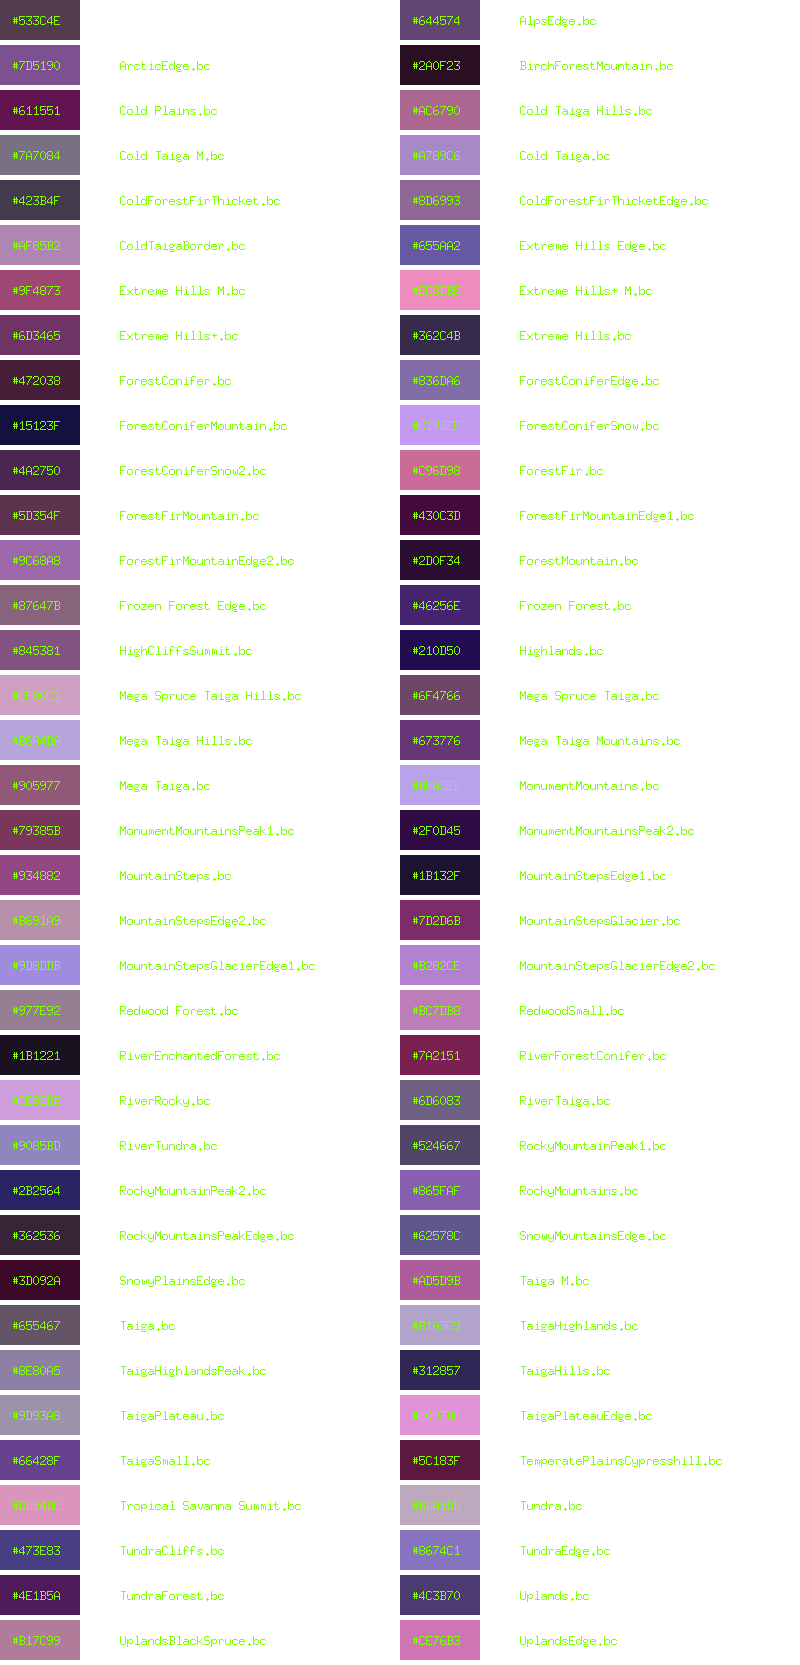
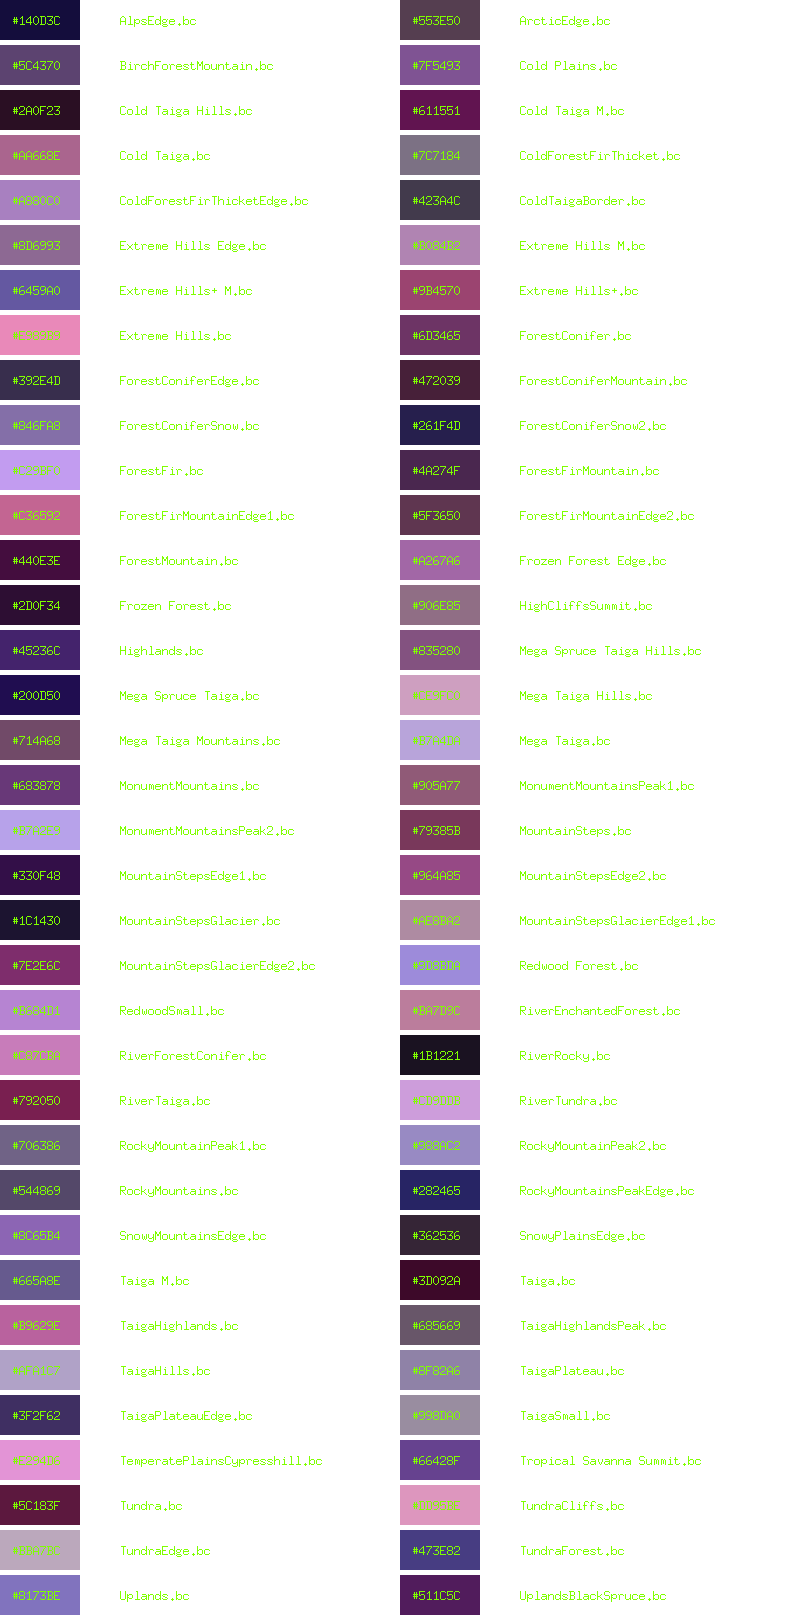
Changed code organization, biomes now organized as struct. I'm rather unsure if I actually need two maps, one by name and one by climate type 🤔

diff --git a/main/main.go b/main/main.go
@@ -12,94 +12,64 @@ import (
 	"strconv"
 	"strings"
 
-	"github.com/lucasb-eyer/go-colorful" // Colors managment
+	"github.com/lucasb-eyer/go-colorful" // Colors management
 	"golang.org/x/image/font"
 	"golang.org/x/image/font/basicfont"
 	"golang.org/x/image/math/fixed"
 	"gopkg.in/ini.v1" // INI parser
 )
 
+// biomeList will contain a map of type biome of all the biomes found by getBiomes indexed with the biome name as the key
+var biomeList = make(map[string][]biome)
+
+// same as above but this map has keys set as climate type
+var biomeListByClimate = make(map[string][]biome)
+
 /*
-Global variables declaration
+The biome struct will contain biomes infos.
+Vanilla reference for the climateZone:
+Biomes are separated into 5 categories.
+The snow-covered biomes are marked in blue with temperature <0.2
+cold in green  with temperature <0.5,
+medium/lush in orange  with temperature <0.95
+and dry/warm in red  with temperature <=2.
 */
 
-// biomeList will contain a slice of all the biomes found by getBiomes
-var biomeList []string
-
-/*
-temperatureGroups will contain biomes grouped by climate zone, I will use shades of those colors for the palette.
-Vanilla reference:
-Biomes are separated into 5 categories. The snow-covered biomes are marked in blue, cold in green,
-medium/lush in orange and dry/warm in red.
-*/
-var temperatureGroups = map[string][]string{
-	"Snowy":  {""},
-	"Cold":   {""},
-	"Medium": {""},
-	"Dry":    {""},
+type biome struct {
+	name        string
+	temperature float64
+	climateZone string
 }
 
+// Used late in prepPalette to check if a color has already been used
 var usedColors [][]float64
 
 func main() {
-	// Prints the number of biomes found, if true it will print also a list of their names
-	totalBiomes := getBiomes(false)
+
+	totalBiomes := getBiomes()
 	fmt.Println("Biomes found: ", totalBiomes)
-
-	// Assign each biome to a temperatureGroups key
-	assignBiomes()
-
-	// Just for debug to ensure that the numbers add up
-	for key := range temperatureGroups {
-		fmt.Println(key, len(temperatureGroups[key]))
-	}
-	fmt.Println(temperatureGroups["Snowy"][1])
 
 	prepPalette()
 }
 
 // getBiomes will parse the WorldBiomes folder, any biome found will be appended to the biomeList. Returns the total number of biomes found
-func getBiomes(test bool) int {
+func getBiomes() int {
 	files, err := ioutil.ReadDir("./WorldBiomes")
 	if err != nil {
 		log.Fatal(err)
 	}
 
 	for _, f := range files {
-		// Add the biomes found to the BiomeList slice
-		biomeList = append(biomeList, f.Name())
-	}
-	// If test == true, prints out a list of the biomes found.
-	if test {
-		fmt.Println(biomeList)
+		biomeCategorization(f.Name())
 	}
 
 	return len(files)
 }
 
-// assignBiomes will parse through the biomes found in biomeList, read their temperature via biomeTemp and assign them to a temperatureGroups map key
-func assignBiomes() {
-	for _, biome := range biomeList {
-		temp := biomeTemp(biome)
+// biomeCategorization will parse every biome and create its struct with proper fields
+func biomeCategorization(s string) {
 
-		switch {
-		case temp < 0.2:
-			temperatureGroups["Snowy"] = append(temperatureGroups["Snowy"], biome)
-		case temp < 0.5:
-			temperatureGroups["Cold"] = append(temperatureGroups["Cold"], biome)
-		case temp < 0.95:
-			temperatureGroups["Medium"] = append(temperatureGroups["Medium"], biome)
-		case temp <= 2:
-			temperatureGroups["Dry"] = append(temperatureGroups["Dry"], biome)
-
-		}
-	}
-
-}
-
-// biomeTemp will open each biome config file to retrieve and return its temperature value
-func biomeTemp(s string) float64 {
-
+	// get a biome file
 	input, err := ini.LoadSources(ini.LoadOptions{
 		SkipUnrecognizableLines: true,
 	}, "./WorldBiomes/"+s)
@@ -108,44 +78,73 @@ func biomeTemp(s string) float64 {
 		os.Exit(1)
 	}
 
-	tempS := input.Section("").Key("BiomeTemperature").String()
-	temp, _ := strconv.ParseFloat(tempS, 64)
+	// Get its temperature value from the key BiomeTemperature
+	temp, _ := strconv.ParseFloat(input.Section("").Key("BiomeTemperature").String(), 64)
 
-	return temp
+	// Let's see which climate this biome has
+	climate := ""
+	switch {
+	case temp < 0.2:
+		climate = "Snowy"
+	case temp < 0.5:
+		climate = "Cold"
+	case temp < 0.95:
+		climate = "Medium"
+	case temp <= 2:
+		climate = "Dry"
+
+	}
+
+	// Save the found biomes in their maps
+	biomeList[s] = append(biomeList[s], biome{
+		name:        s,
+		temperature: temp,
+		climateZone: climate,
+	})
+
+	biomeListByClimate[climate] = append(biomeListByClimate[climate], biome{
+		name:        s,
+		temperature: temp,
+		climateZone: climate,
+	})
+
 }
 
-// prepPalette will generate a colour palette for each group in temperatureGroups by calling the respective color settings in
-// isSnowy, isCold etc
+/*
+prepPalette will generate a colour palette for each climate in biomeListByClimate ensuring that all the generated colors falls under the right range with the isSnowy, isCold etc functions.
+
+*/
 func prepPalette() {
 
 	usedColors = [][]float64{}
-	snowyColors := len(temperatureGroups["Snowy"])
+	snowyColors := len(biomeListByClimate["Snowy"])
 	snowyPalette, err := colorful.SoftPaletteEx(snowyColors, colorful.SoftPaletteSettings{isSnowy, 50, true})
 	if err != nil {
 		fmt.Println(err)
 	}
 
 	usedColors = [][]float64{}
-	coldColors := len(temperatureGroups["Cold"])
+	coldColors := len(biomeListByClimate["Cold"])
 	coldPalette, err := colorful.SoftPaletteEx(coldColors, colorful.SoftPaletteSettings{isCold, 50, true})
 	if err != nil {
 		fmt.Println(err)
 	}
 
 	usedColors = [][]float64{}
-	mediumColors := len(temperatureGroups["Medium"])
+	mediumColors := len(biomeListByClimate["Medium"])
 	mediumPalette, err := colorful.SoftPaletteEx(mediumColors, colorful.SoftPaletteSettings{isMedium, 50, true})
 	if err != nil {
 		fmt.Println(err)
 	}
 
 	usedColors = [][]float64{}
-	dryColors := len(temperatureGroups["Dry"])
+	dryColors := len(biomeListByClimate["Dry"])
 	dryPalette, err := colorful.SoftPaletteEx(dryColors, colorful.SoftPaletteSettings{isDry, 50, true})
 	if err != nil {
 		fmt.Println(err)
 	}
 
+	// Let's organize the palettes
 	palettes := map[string][]colorful.Color{
 		"Snowy":  snowyPalette,
 		"Cold":   coldPalette,
@@ -153,8 +152,9 @@ func prepPalette() {
 		"Dry":    dryPalette,
 	}
 
+	// Draw them!
 	for i := range palettes {
-		printPalette(palettes[i], len(temperatureGroups[i]), i)
+		drawPalette(palettes[i], len(biomeListByClimate[i]), i)
 	}
 
 }
@@ -165,17 +165,18 @@ func isUnique(h, c, L float64) bool {
 	for _, color := range usedColors {
 		if color[0] == h && color[1] == c && color[2] == L {
 			//fmt.Println("This color already exist!")
-			//fmt.Println(usuedColors)
+			//fmt.Println(usedColors)
 			return false
 		}
 	}
 	return true
 }
 
+// All the color checking functions, I guess all of them could be grouped as a interface? And then prepPalette just call check.isSnowy, check.isCold mmm
 func isSnowy(l, a, b float64) bool {
 	h, c, L := colorful.LabToHcl(l, a, b)
 
-	// ok is a placeholder for Go visibility and scope rules
+	// ok is a placeholder for Go visibility and scope rules, do I really need this?? Must be a smarter way
 	ok := false
 
 	// if the the generated color falls into the criteria, check if it has already been generated
@@ -240,13 +241,13 @@ func isDry(l, a, b float64) bool {
 	return ok
 }
 
-// printPalette will take in a palette (created in prepPalette), how many colors it contains and its category name (Snowy, Cold etc from temperatureGroups)
-func printPalette(currentPalette []colorful.Color, colors int, group string) {
+// drawPalette will take in a palette (created in prepPalette), how many colors it contains and its climate name (Snowy, Cold etc)
+func drawPalette(currentPalette []colorful.Color, colors int, group string) {
 	/*
 		The image layout is meant to be on two columns "colored square" "HEX Value" "Biome Name"
 	*/
 
-	// Palette squares side lenght and spacing between each of them
+	// Palette squares side length and spacing between each of them
 	blockw := 40
 	space := 5
 
@@ -256,13 +257,13 @@ func printPalette(currentPalette []colorful.Color, colors int, group string) {
 	// White background
 	draw.Draw(img, image.Rect(0, 0, 800, colors/2*(blockw+space)), image.NewUniform(color.RGBA{255, 255, 255, 255}), image.ZP, draw.Src)
 
-	// Draw on the image
+	// Draw on the image each color of the current palette
 	i := 0
 	for row := 0; row < colors/2; row++ {
 		for j := 0; j <= 1; j++ {
 			draw.Draw(img, image.Rect(400*j, row*(blockw+space), 400*j+2*blockw, row*(blockw+space)+blockw), &image.Uniform{currentPalette[i]}, image.ZP, draw.Src)
 			addLabel(img, 12+400*j, 25+(row*(blockw+space)), strings.ToUpper(currentPalette[i].Hex()))
-			addLabel(img, 120+400*j, 25+(row*(blockw+space)), temperatureGroups[group][i])
+			addLabel(img, 120+400*j, 25+(row*(blockw+space)), biomeListByClimate[group][i].name)
 			i++
 		}
 
@@ -280,6 +281,7 @@ func printPalette(currentPalette []colorful.Color, colors int, group string) {
 	png.Encode(toimg, img)
 }
 
+// Write down on the image the HEX color and the biome name
 func addLabel(img *image.RGBA, x, y int, label string) {
 	col := color.RGBA{127, 255, 0, 255}
 	point := fixed.Point26_6{fixed.Int26_6(x * 64), fixed.Int26_6(y * 64)}
